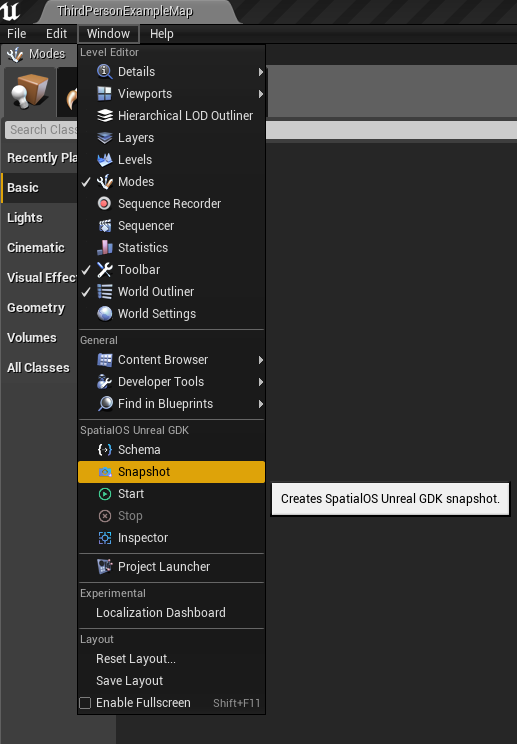
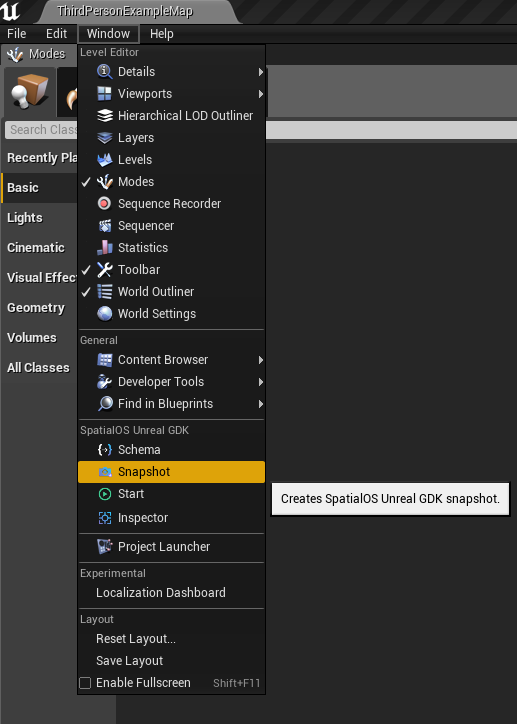
Duplicate of #695 - Spatial OS Toolbar now only shows one of the Start / Stop button (#698)
* Spatial OS Toolbar now only show one of the Start / Stop button instead of only graying out the one that is not usable

* Fix screenshots to show the toolbar with always one button

Changed region(s): [[0.0, 0.0, 1.0, 0.9724], [0.4023, 0.942, 0.4952, 0.9724], [0.4952, 0.4862, 0.5261, 0.547]]

diff --git a/SpatialGDK/Source/SpatialGDKEditorToolbar/Private/SpatialGDKEditorToolbar.cpp b/SpatialGDK/Source/SpatialGDKEditorToolbar/Private/SpatialGDKEditorToolbar.cpp
@@ -140,12 +140,16 @@ void FSpatialGDKEditorToolbarModule::MapActions(TSharedPtr<class FUICommandList>
 	InPluginCommands->MapAction(
 		FSpatialGDKEditorToolbarCommands::Get().StartSpatialOSStackAction,
 		FExecuteAction::CreateRaw(this, &FSpatialGDKEditorToolbarModule::StartSpatialOSButtonClicked),
-		FCanExecuteAction::CreateRaw(this, &FSpatialGDKEditorToolbarModule::StartSpatialOSStackCanExecute));
+		FCanExecuteAction::CreateRaw(this, &FSpatialGDKEditorToolbarModule::StartSpatialOSStackCanExecute),
+		FIsActionChecked(),
+		FIsActionButtonVisible::CreateRaw(this, &FSpatialGDKEditorToolbarModule::StartSpatialOSStackCanExecute));
 
 	InPluginCommands->MapAction(
 		FSpatialGDKEditorToolbarCommands::Get().StopSpatialOSStackAction,
 		FExecuteAction::CreateRaw(this, &FSpatialGDKEditorToolbarModule::StopSpatialOSButtonClicked),
-		FCanExecuteAction::CreateRaw(this, &FSpatialGDKEditorToolbarModule::StopSpatialOSStackCanExecute));
+		FCanExecuteAction::CreateRaw(this, &FSpatialGDKEditorToolbarModule::StopSpatialOSStackCanExecute),
+		FIsActionChecked(),
+		FIsActionButtonVisible::CreateRaw(this, &FSpatialGDKEditorToolbarModule::StopSpatialOSStackCanExecute));
 
 	InPluginCommands->MapAction(
 		FSpatialGDKEditorToolbarCommands::Get().LaunchInspectorWebPageAction,
